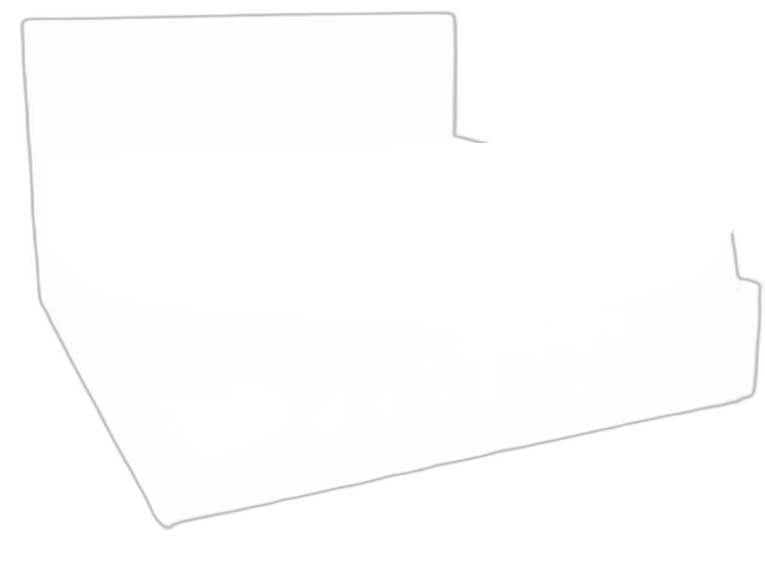
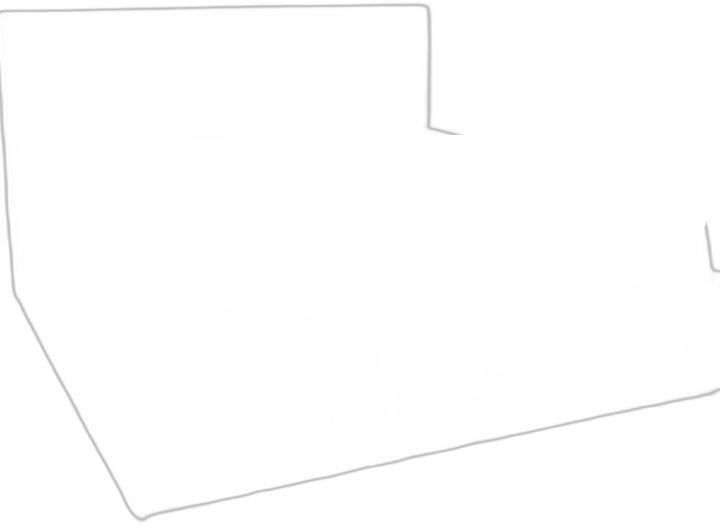
add: price fix

diff --git a/index.html b/index.html
@@ -111,10 +111,6 @@
             </div>
           </div>
 
-          <!-- Características incluidas que ya no se muestran como toggles
-               interactivos (la foto es fija): se listan como nota informativa. -->
-          <p class="preview-feature-note">Incluye porta-vasos integrados. Cojines extra y patrón de costuras disponibles — se cotizan y confirman por WhatsApp.</p>
-
           <!-- ============== FOTO CAMA ==============
             Una sola foto real (fondo removido, escala de grises). El color
             elegido se aplica igual que en el sofá: ".color-overlay" con
@@ -129,7 +125,6 @@
             </div>
           </div>
 
-          <p class="preview-feature-note">Estilo de cabecera mostrado: canaletas verticales. Otros estilos de costura disponibles — se cotizan y confirman por WhatsApp.</p>
         </div>
       </div>
 
@@ -158,12 +153,18 @@
               </label>
             </div>
           </fieldset>
+
+          <!-- Características incluidas que ya no se muestran como toggles
+               interactivos (la foto es fija): se listan como nota informativa. -->
+          <p class="preview-feature-note">Incluye porta-vasos integrados (opcional). Cojines extra y patrón de costuras disponibles — se cotizan y confirman por WhatsApp.</p>
         </div>
 
         <!-- ============ Opciones exclusivas de la CAMA ============
-             (por ahora ninguna: el estilo de cabecera se define en la nota
-             informativa debajo de la foto, no como selector interactivo) -->
-        <div id="cama-only-options"></div>
+             (el estilo de cabecera se define en la nota informativa,
+             no como selector interactivo) -->
+        <div id="cama-only-options">
+          <p class="preview-feature-note">Estilo de cabecera mostrado: canaletas verticales. Otros estilos de costura disponibles — se cotizan y confirman por WhatsApp.</p>
+        </div>
 
         <!-- Color (compartido; las muestras cambian según la tela escogida).
              Va ANTES que "Tipo de tela" a propósito: en pantallas angostas
@@ -197,7 +198,7 @@
 
         <!-- Precio estimado -->
         <div class="price-box">
-          <span>Total estimado</span>
+          <span>Precio</span>
           <strong id="price-total">₡185.000</strong>
         </div>
 

diff --git a/js/script.js b/js/script.js
@@ -258,15 +258,10 @@
   /* -----------------------------------------------------------
      10. CONSTRUYE EL MENSAJE DE WHATSAPP CON LA SELECCIÓN ACTUAL
   ----------------------------------------------------------- */
-  const SOFA_STATE_LABELS = {
-    cerrado: "posición cerrado",
-    media: "posición extendido",
-    completa: "posición cama completa"
-  };
-
   // Mensaje CON el detalle de la selección actual — solo para el botón
-  // debajo del configurador. Solo incluye lo que aplica a cada producto
-  // (p.ej. la cama no tiene "posición", eso es solo del sofá).
+  // debajo del configurador. No incluye la posición del sofá (cerrado/media/
+  // completa): es solo una vista previa del configurador, no algo que tenga
+  // sentido pedir por WhatsApp.
   function buildWhatsappMessage() {
     const color = FABRICS[state.fabricType][state.colorIndex];
     const fabricLabel = capitalize(state.fabricType);
@@ -276,7 +271,6 @@
 
     if (state.product === "sofa") {
       parts.push("Sofá cama");
-      parts.push(SOFA_STATE_LABELS[state.sofaState]);
       parts.push("tela " + fabricLabel);
       parts.push("color " + color.name);
     } else {